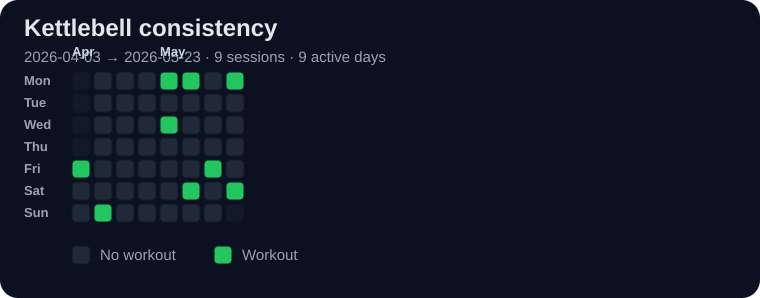
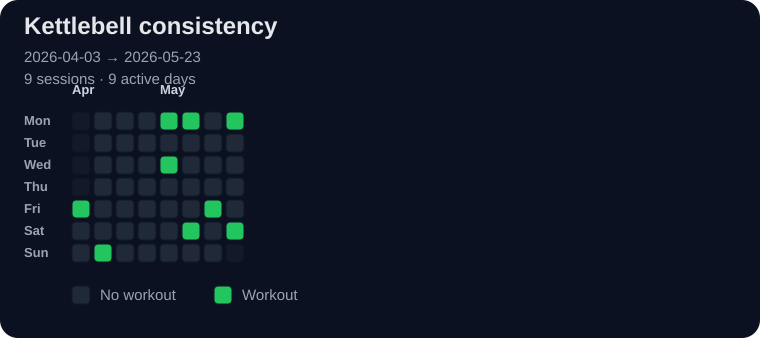
Fix heatmap header spacing

diff --git a/heatmap.html b/heatmap.html
@@ -1,79 +1,80 @@
 <!doctype html><meta charset="utf-8"><title>Kettlebell heat map</title><body style="margin:0;background:#020617;padding:24px"><div style="max-width:900px">
-<svg xmlns="http://www.w3.org/2000/svg" width="760" height="298" viewBox="0 0 760 298" role="img" aria-labelledby="title desc">
+<svg xmlns="http://www.w3.org/2000/svg" width="760" height="338" viewBox="0 0 760 338" role="img" aria-labelledby="title desc">
 <style><![CDATA[.bg{fill:#0b1120}.text{fill:#e5e7eb;font:700 24px system-ui,-apple-system,Segoe UI,sans-serif}.muted{fill:#9ca3af;font:500 15px system-ui,-apple-system,Segoe UI,sans-serif}.tiny{fill:#9ca3af;font:600 13px system-ui,-apple-system,Segoe UI,sans-serif}.cell{stroke:#111827;stroke-width:1}.month{fill:#cbd5e1;font:700 13px system-ui,-apple-system,Segoe UI,sans-serif}]]></style>
 <title id="title">Kettlebell calendar heat map</title>
 <desc id="desc">9 sessions across 9 active days from 2026-04-03 to 2026-05-23.</desc>
-<rect class="bg" width="760" height="298" rx="18"/>
-<text class="text" x="24" y="36">Kettlebell consistency</text>
-<text class="muted" x="24" y="62">2026-04-03 → 2026-05-23 · 9 sessions · 9 active days</text>
-<text class="month" x="72" y="56">Apr</text>
-<text class="month" x="160" y="56">May</text>
-<text class="tiny" x="24" y="85">Mon</text>
-<text class="tiny" x="24" y="107">Tue</text>
-<text class="tiny" x="24" y="129">Wed</text>
-<text class="tiny" x="24" y="151">Thu</text>
-<text class="tiny" x="24" y="173">Fri</text>
-<text class="tiny" x="24" y="195">Sat</text>
-<text class="tiny" x="24" y="217">Sun</text>
-<rect class="cell" x="72" y="72" width="18" height="18" rx="4" fill="#1f2937" opacity="0.35"><title>2026-03-30: 0 session(s); none</title></rect>
-<rect class="cell" x="72" y="94" width="18" height="18" rx="4" fill="#1f2937" opacity="0.35"><title>2026-03-31: 0 session(s); none</title></rect>
-<rect class="cell" x="72" y="116" width="18" height="18" rx="4" fill="#1f2937" opacity="0.35"><title>2026-04-01: 0 session(s); none</title></rect>
-<rect class="cell" x="72" y="138" width="18" height="18" rx="4" fill="#1f2937" opacity="0.35"><title>2026-04-02: 0 session(s); none</title></rect>
-<rect class="cell" x="72" y="160" width="18" height="18" rx="4" fill="#22c55e" opacity="1"><title>2026-04-03: 1 session(s); pull_lower_focus</title></rect>
-<rect class="cell" x="72" y="182" width="18" height="18" rx="4" fill="#1f2937" opacity="1"><title>2026-04-04: 0 session(s); none</title></rect>
-<rect class="cell" x="72" y="204" width="18" height="18" rx="4" fill="#1f2937" opacity="1"><title>2026-04-05: 0 session(s); none</title></rect>
-<rect class="cell" x="94" y="72" width="18" height="18" rx="4" fill="#1f2937" opacity="1"><title>2026-04-06: 0 session(s); none</title></rect>
-<rect class="cell" x="94" y="94" width="18" height="18" rx="4" fill="#1f2937" opacity="1"><title>2026-04-07: 0 session(s); none</title></rect>
-<rect class="cell" x="94" y="116" width="18" height="18" rx="4" fill="#1f2937" opacity="1"><title>2026-04-08: 0 session(s); none</title></rect>
-<rect class="cell" x="94" y="138" width="18" height="18" rx="4" fill="#1f2937" opacity="1"><title>2026-04-09: 0 session(s); none</title></rect>
-<rect class="cell" x="94" y="160" width="18" height="18" rx="4" fill="#1f2937" opacity="1"><title>2026-04-10: 0 session(s); none</title></rect>
-<rect class="cell" x="94" y="182" width="18" height="18" rx="4" fill="#1f2937" opacity="1"><title>2026-04-11: 0 session(s); none</title></rect>
-<rect class="cell" x="94" y="204" width="18" height="18" rx="4" fill="#22c55e" opacity="1"><title>2026-04-12: 1 session(s); push_upper_focus</title></rect>
-<rect class="cell" x="116" y="72" width="18" height="18" rx="4" fill="#1f2937" opacity="1"><title>2026-04-13: 0 session(s); none</title></rect>
-<rect class="cell" x="116" y="94" width="18" height="18" rx="4" fill="#1f2937" opacity="1"><title>2026-04-14: 0 session(s); none</title></rect>
-<rect class="cell" x="116" y="116" width="18" height="18" rx="4" fill="#1f2937" opacity="1"><title>2026-04-15: 0 session(s); none</title></rect>
-<rect class="cell" x="116" y="138" width="18" height="18" rx="4" fill="#1f2937" opacity="1"><title>2026-04-16: 0 session(s); none</title></rect>
-<rect class="cell" x="116" y="160" width="18" height="18" rx="4" fill="#1f2937" opacity="1"><title>2026-04-17: 0 session(s); none</title></rect>
-<rect class="cell" x="116" y="182" width="18" height="18" rx="4" fill="#1f2937" opacity="1"><title>2026-04-18: 0 session(s); none</title></rect>
-<rect class="cell" x="116" y="204" width="18" height="18" rx="4" fill="#1f2937" opacity="1"><title>2026-04-19: 0 session(s); none</title></rect>
-<rect class="cell" x="138" y="72" width="18" height="18" rx="4" fill="#1f2937" opacity="1"><title>2026-04-20: 0 session(s); none</title></rect>
-<rect class="cell" x="138" y="94" width="18" height="18" rx="4" fill="#1f2937" opacity="1"><title>2026-04-21: 0 session(s); none</title></rect>
-<rect class="cell" x="138" y="116" width="18" height="18" rx="4" fill="#1f2937" opacity="1"><title>2026-04-22: 0 session(s); none</title></rect>
-<rect class="cell" x="138" y="138" width="18" height="18" rx="4" fill="#1f2937" opacity="1"><title>2026-04-23: 0 session(s); none</title></rect>
-<rect class="cell" x="138" y="160" width="18" height="18" rx="4" fill="#1f2937" opacity="1"><title>2026-04-24: 0 session(s); none</title></rect>
-<rect class="cell" x="138" y="182" width="18" height="18" rx="4" fill="#1f2937" opacity="1"><title>2026-04-25: 0 session(s); none</title></rect>
-<rect class="cell" x="138" y="204" width="18" height="18" rx="4" fill="#1f2937" opacity="1"><title>2026-04-26: 0 session(s); none</title></rect>
-<rect class="cell" x="160" y="72" width="18" height="18" rx="4" fill="#22c55e" opacity="1"><title>2026-04-27: 1 session(s); full_circuit</title></rect>
-<rect class="cell" x="160" y="94" width="18" height="18" rx="4" fill="#1f2937" opacity="1"><title>2026-04-28: 0 session(s); none</title></rect>
-<rect class="cell" x="160" y="116" width="18" height="18" rx="4" fill="#22c55e" opacity="1"><title>2026-04-29: 1 session(s); snatch_ballistic</title></rect>
-<rect class="cell" x="160" y="138" width="18" height="18" rx="4" fill="#1f2937" opacity="1"><title>2026-04-30: 0 session(s); none</title></rect>
-<rect class="cell" x="160" y="160" width="18" height="18" rx="4" fill="#1f2937" opacity="1"><title>2026-05-01: 0 session(s); none</title></rect>
-<rect class="cell" x="160" y="182" width="18" height="18" rx="4" fill="#1f2937" opacity="1"><title>2026-05-02: 0 session(s); none</title></rect>
-<rect class="cell" x="160" y="204" width="18" height="18" rx="4" fill="#1f2937" opacity="1"><title>2026-05-03: 0 session(s); none</title></rect>
-<rect class="cell" x="182" y="72" width="18" height="18" rx="4" fill="#22c55e" opacity="1"><title>2026-05-04: 1 session(s); push_pull</title></rect>
-<rect class="cell" x="182" y="94" width="18" height="18" rx="4" fill="#1f2937" opacity="1"><title>2026-05-05: 0 session(s); none</title></rect>
-<rect class="cell" x="182" y="116" width="18" height="18" rx="4" fill="#1f2937" opacity="1"><title>2026-05-06: 0 session(s); none</title></rect>
-<rect class="cell" x="182" y="138" width="18" height="18" rx="4" fill="#1f2937" opacity="1"><title>2026-05-07: 0 session(s); none</title></rect>
-<rect class="cell" x="182" y="160" width="18" height="18" rx="4" fill="#1f2937" opacity="1"><title>2026-05-08: 0 session(s); none</title></rect>
-<rect class="cell" x="182" y="182" width="18" height="18" rx="4" fill="#22c55e" opacity="1"><title>2026-05-09: 1 session(s); press_focus</title></rect>
-<rect class="cell" x="182" y="204" width="18" height="18" rx="4" fill="#1f2937" opacity="1"><title>2026-05-10: 0 session(s); none</title></rect>
-<rect class="cell" x="204" y="72" width="18" height="18" rx="4" fill="#1f2937" opacity="1"><title>2026-05-11: 0 session(s); none</title></rect>
-<rect class="cell" x="204" y="94" width="18" height="18" rx="4" fill="#1f2937" opacity="1"><title>2026-05-12: 0 session(s); none</title></rect>
-<rect class="cell" x="204" y="116" width="18" height="18" rx="4" fill="#1f2937" opacity="1"><title>2026-05-13: 0 session(s); none</title></rect>
-<rect class="cell" x="204" y="138" width="18" height="18" rx="4" fill="#1f2937" opacity="1"><title>2026-05-14: 0 session(s); none</title></rect>
-<rect class="cell" x="204" y="160" width="18" height="18" rx="4" fill="#22c55e" opacity="1"><title>2026-05-15: 1 session(s); snatch_ballistic</title></rect>
-<rect class="cell" x="204" y="182" width="18" height="18" rx="4" fill="#1f2937" opacity="1"><title>2026-05-16: 0 session(s); none</title></rect>
-<rect class="cell" x="204" y="204" width="18" height="18" rx="4" fill="#1f2937" opacity="1"><title>2026-05-17: 0 session(s); none</title></rect>
-<rect class="cell" x="226" y="72" width="18" height="18" rx="4" fill="#22c55e" opacity="1"><title>2026-05-18: 1 session(s); push_pull</title></rect>
-<rect class="cell" x="226" y="94" width="18" height="18" rx="4" fill="#1f2937" opacity="1"><title>2026-05-19: 0 session(s); none</title></rect>
-<rect class="cell" x="226" y="116" width="18" height="18" rx="4" fill="#1f2937" opacity="1"><title>2026-05-20: 0 session(s); none</title></rect>
-<rect class="cell" x="226" y="138" width="18" height="18" rx="4" fill="#1f2937" opacity="1"><title>2026-05-21: 0 session(s); none</title></rect>
-<rect class="cell" x="226" y="160" width="18" height="18" rx="4" fill="#1f2937" opacity="1"><title>2026-05-22: 0 session(s); none</title></rect>
-<rect class="cell" x="226" y="182" width="18" height="18" rx="4" fill="#22c55e" opacity="1"><title>2026-05-23: 1 session(s); press_focus</title></rect>
-<rect class="cell" x="226" y="204" width="18" height="18" rx="4" fill="#1f2937" opacity="0.35"><title>2026-05-24: 0 session(s); none</title></rect>
-<rect class="cell" x="72" y="246" width="18" height="18" rx="4" fill="#1f2937"/>
-<text class="muted" x="100" y="260">No workout</text>
-<rect class="cell" x="214" y="246" width="18" height="18" rx="4" fill="#22c55e"/>
-<text class="muted" x="242" y="260">Workout</text>
+<rect class="bg" width="760" height="338" rx="18"/>
+<text class="text" x="24" y="34">Kettlebell consistency</text>
+<text class="muted" x="24" y="62">2026-04-03 → 2026-05-23</text>
+<text class="muted" x="24" y="84">9 sessions · 9 active days</text>
+<text class="month" x="72" y="94">Apr</text>
+<text class="month" x="160" y="94">May</text>
+<text class="tiny" x="24" y="125">Mon</text>
+<text class="tiny" x="24" y="147">Tue</text>
+<text class="tiny" x="24" y="169">Wed</text>
+<text class="tiny" x="24" y="191">Thu</text>
+<text class="tiny" x="24" y="213">Fri</text>
+<text class="tiny" x="24" y="235">Sat</text>
+<text class="tiny" x="24" y="257">Sun</text>
+<rect class="cell" x="72" y="112" width="18" height="18" rx="4" fill="#1f2937" opacity="0.35"><title>2026-03-30: 0 session(s); none</title></rect>
+<rect class="cell" x="72" y="134" width="18" height="18" rx="4" fill="#1f2937" opacity="0.35"><title>2026-03-31: 0 session(s); none</title></rect>
+<rect class="cell" x="72" y="156" width="18" height="18" rx="4" fill="#1f2937" opacity="0.35"><title>2026-04-01: 0 session(s); none</title></rect>
+<rect class="cell" x="72" y="178" width="18" height="18" rx="4" fill="#1f2937" opacity="0.35"><title>2026-04-02: 0 session(s); none</title></rect>
+<rect class="cell" x="72" y="200" width="18" height="18" rx="4" fill="#22c55e" opacity="1"><title>2026-04-03: 1 session(s); pull_lower_focus</title></rect>
+<rect class="cell" x="72" y="222" width="18" height="18" rx="4" fill="#1f2937" opacity="1"><title>2026-04-04: 0 session(s); none</title></rect>
+<rect class="cell" x="72" y="244" width="18" height="18" rx="4" fill="#1f2937" opacity="1"><title>2026-04-05: 0 session(s); none</title></rect>
+<rect class="cell" x="94" y="112" width="18" height="18" rx="4" fill="#1f2937" opacity="1"><title>2026-04-06: 0 session(s); none</title></rect>
+<rect class="cell" x="94" y="134" width="18" height="18" rx="4" fill="#1f2937" opacity="1"><title>2026-04-07: 0 session(s); none</title></rect>
+<rect class="cell" x="94" y="156" width="18" height="18" rx="4" fill="#1f2937" opacity="1"><title>2026-04-08: 0 session(s); none</title></rect>
+<rect class="cell" x="94" y="178" width="18" height="18" rx="4" fill="#1f2937" opacity="1"><title>2026-04-09: 0 session(s); none</title></rect>
+<rect class="cell" x="94" y="200" width="18" height="18" rx="4" fill="#1f2937" opacity="1"><title>2026-04-10: 0 session(s); none</title></rect>
+<rect class="cell" x="94" y="222" width="18" height="18" rx="4" fill="#1f2937" opacity="1"><title>2026-04-11: 0 session(s); none</title></rect>
+<rect class="cell" x="94" y="244" width="18" height="18" rx="4" fill="#22c55e" opacity="1"><title>2026-04-12: 1 session(s); push_upper_focus</title></rect>
+<rect class="cell" x="116" y="112" width="18" height="18" rx="4" fill="#1f2937" opacity="1"><title>2026-04-13: 0 session(s); none</title></rect>
+<rect class="cell" x="116" y="134" width="18" height="18" rx="4" fill="#1f2937" opacity="1"><title>2026-04-14: 0 session(s); none</title></rect>
+<rect class="cell" x="116" y="156" width="18" height="18" rx="4" fill="#1f2937" opacity="1"><title>2026-04-15: 0 session(s); none</title></rect>
+<rect class="cell" x="116" y="178" width="18" height="18" rx="4" fill="#1f2937" opacity="1"><title>2026-04-16: 0 session(s); none</title></rect>
+<rect class="cell" x="116" y="200" width="18" height="18" rx="4" fill="#1f2937" opacity="1"><title>2026-04-17: 0 session(s); none</title></rect>
+<rect class="cell" x="116" y="222" width="18" height="18" rx="4" fill="#1f2937" opacity="1"><title>2026-04-18: 0 session(s); none</title></rect>
+<rect class="cell" x="116" y="244" width="18" height="18" rx="4" fill="#1f2937" opacity="1"><title>2026-04-19: 0 session(s); none</title></rect>
+<rect class="cell" x="138" y="112" width="18" height="18" rx="4" fill="#1f2937" opacity="1"><title>2026-04-20: 0 session(s); none</title></rect>
+<rect class="cell" x="138" y="134" width="18" height="18" rx="4" fill="#1f2937" opacity="1"><title>2026-04-21: 0 session(s); none</title></rect>
+<rect class="cell" x="138" y="156" width="18" height="18" rx="4" fill="#1f2937" opacity="1"><title>2026-04-22: 0 session(s); none</title></rect>
+<rect class="cell" x="138" y="178" width="18" height="18" rx="4" fill="#1f2937" opacity="1"><title>2026-04-23: 0 session(s); none</title></rect>
+<rect class="cell" x="138" y="200" width="18" height="18" rx="4" fill="#1f2937" opacity="1"><title>2026-04-24: 0 session(s); none</title></rect>
+<rect class="cell" x="138" y="222" width="18" height="18" rx="4" fill="#1f2937" opacity="1"><title>2026-04-25: 0 session(s); none</title></rect>
+<rect class="cell" x="138" y="244" width="18" height="18" rx="4" fill="#1f2937" opacity="1"><title>2026-04-26: 0 session(s); none</title></rect>
+<rect class="cell" x="160" y="112" width="18" height="18" rx="4" fill="#22c55e" opacity="1"><title>2026-04-27: 1 session(s); full_circuit</title></rect>
+<rect class="cell" x="160" y="134" width="18" height="18" rx="4" fill="#1f2937" opacity="1"><title>2026-04-28: 0 session(s); none</title></rect>
+<rect class="cell" x="160" y="156" width="18" height="18" rx="4" fill="#22c55e" opacity="1"><title>2026-04-29: 1 session(s); snatch_ballistic</title></rect>
+<rect class="cell" x="160" y="178" width="18" height="18" rx="4" fill="#1f2937" opacity="1"><title>2026-04-30: 0 session(s); none</title></rect>
+<rect class="cell" x="160" y="200" width="18" height="18" rx="4" fill="#1f2937" opacity="1"><title>2026-05-01: 0 session(s); none</title></rect>
+<rect class="cell" x="160" y="222" width="18" height="18" rx="4" fill="#1f2937" opacity="1"><title>2026-05-02: 0 session(s); none</title></rect>
+<rect class="cell" x="160" y="244" width="18" height="18" rx="4" fill="#1f2937" opacity="1"><title>2026-05-03: 0 session(s); none</title></rect>
+<rect class="cell" x="182" y="112" width="18" height="18" rx="4" fill="#22c55e" opacity="1"><title>2026-05-04: 1 session(s); push_pull</title></rect>
+<rect class="cell" x="182" y="134" width="18" height="18" rx="4" fill="#1f2937" opacity="1"><title>2026-05-05: 0 session(s); none</title></rect>
+<rect class="cell" x="182" y="156" width="18" height="18" rx="4" fill="#1f2937" opacity="1"><title>2026-05-06: 0 session(s); none</title></rect>
+<rect class="cell" x="182" y="178" width="18" height="18" rx="4" fill="#1f2937" opacity="1"><title>2026-05-07: 0 session(s); none</title></rect>
+<rect class="cell" x="182" y="200" width="18" height="18" rx="4" fill="#1f2937" opacity="1"><title>2026-05-08: 0 session(s); none</title></rect>
+<rect class="cell" x="182" y="222" width="18" height="18" rx="4" fill="#22c55e" opacity="1"><title>2026-05-09: 1 session(s); press_focus</title></rect>
+<rect class="cell" x="182" y="244" width="18" height="18" rx="4" fill="#1f2937" opacity="1"><title>2026-05-10: 0 session(s); none</title></rect>
+<rect class="cell" x="204" y="112" width="18" height="18" rx="4" fill="#1f2937" opacity="1"><title>2026-05-11: 0 session(s); none</title></rect>
+<rect class="cell" x="204" y="134" width="18" height="18" rx="4" fill="#1f2937" opacity="1"><title>2026-05-12: 0 session(s); none</title></rect>
+<rect class="cell" x="204" y="156" width="18" height="18" rx="4" fill="#1f2937" opacity="1"><title>2026-05-13: 0 session(s); none</title></rect>
+<rect class="cell" x="204" y="178" width="18" height="18" rx="4" fill="#1f2937" opacity="1"><title>2026-05-14: 0 session(s); none</title></rect>
+<rect class="cell" x="204" y="200" width="18" height="18" rx="4" fill="#22c55e" opacity="1"><title>2026-05-15: 1 session(s); snatch_ballistic</title></rect>
+<rect class="cell" x="204" y="222" width="18" height="18" rx="4" fill="#1f2937" opacity="1"><title>2026-05-16: 0 session(s); none</title></rect>
+<rect class="cell" x="204" y="244" width="18" height="18" rx="4" fill="#1f2937" opacity="1"><title>2026-05-17: 0 session(s); none</title></rect>
+<rect class="cell" x="226" y="112" width="18" height="18" rx="4" fill="#22c55e" opacity="1"><title>2026-05-18: 1 session(s); push_pull</title></rect>
+<rect class="cell" x="226" y="134" width="18" height="18" rx="4" fill="#1f2937" opacity="1"><title>2026-05-19: 0 session(s); none</title></rect>
+<rect class="cell" x="226" y="156" width="18" height="18" rx="4" fill="#1f2937" opacity="1"><title>2026-05-20: 0 session(s); none</title></rect>
+<rect class="cell" x="226" y="178" width="18" height="18" rx="4" fill="#1f2937" opacity="1"><title>2026-05-21: 0 session(s); none</title></rect>
+<rect class="cell" x="226" y="200" width="18" height="18" rx="4" fill="#1f2937" opacity="1"><title>2026-05-22: 0 session(s); none</title></rect>
+<rect class="cell" x="226" y="222" width="18" height="18" rx="4" fill="#22c55e" opacity="1"><title>2026-05-23: 1 session(s); press_focus</title></rect>
+<rect class="cell" x="226" y="244" width="18" height="18" rx="4" fill="#1f2937" opacity="0.35"><title>2026-05-24: 0 session(s); none</title></rect>
+<rect class="cell" x="72" y="286" width="18" height="18" rx="4" fill="#1f2937"/>
+<text class="muted" x="100" y="300">No workout</text>
+<rect class="cell" x="214" y="286" width="18" height="18" rx="4" fill="#22c55e"/>
+<text class="muted" x="242" y="300">Workout</text>
 </svg>
 </div></body>